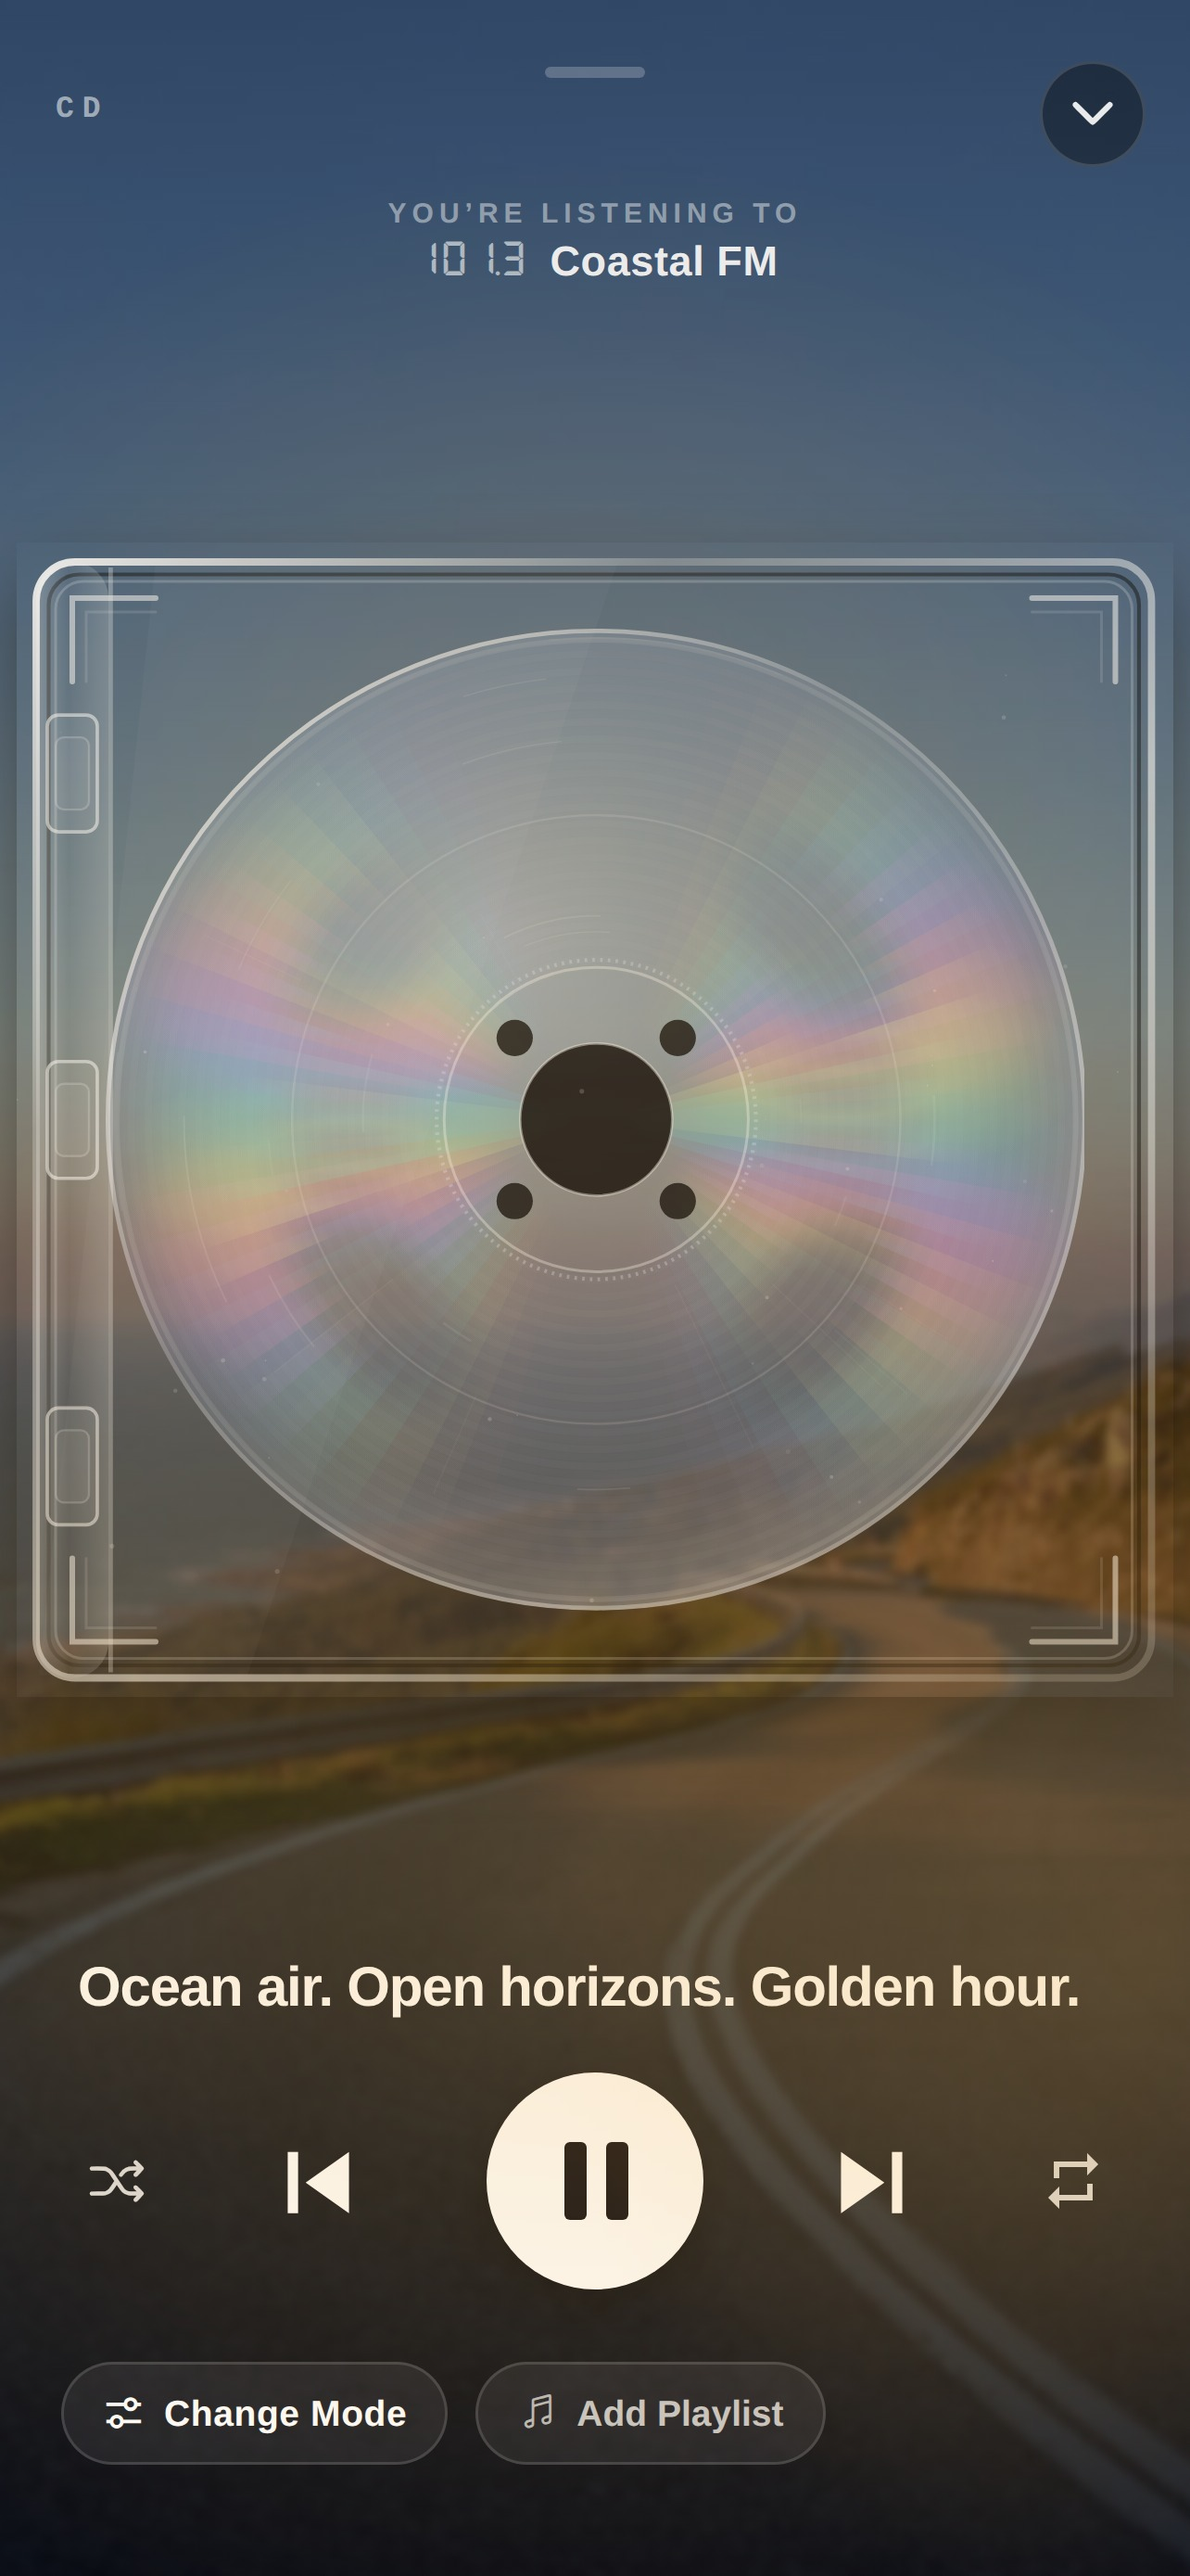
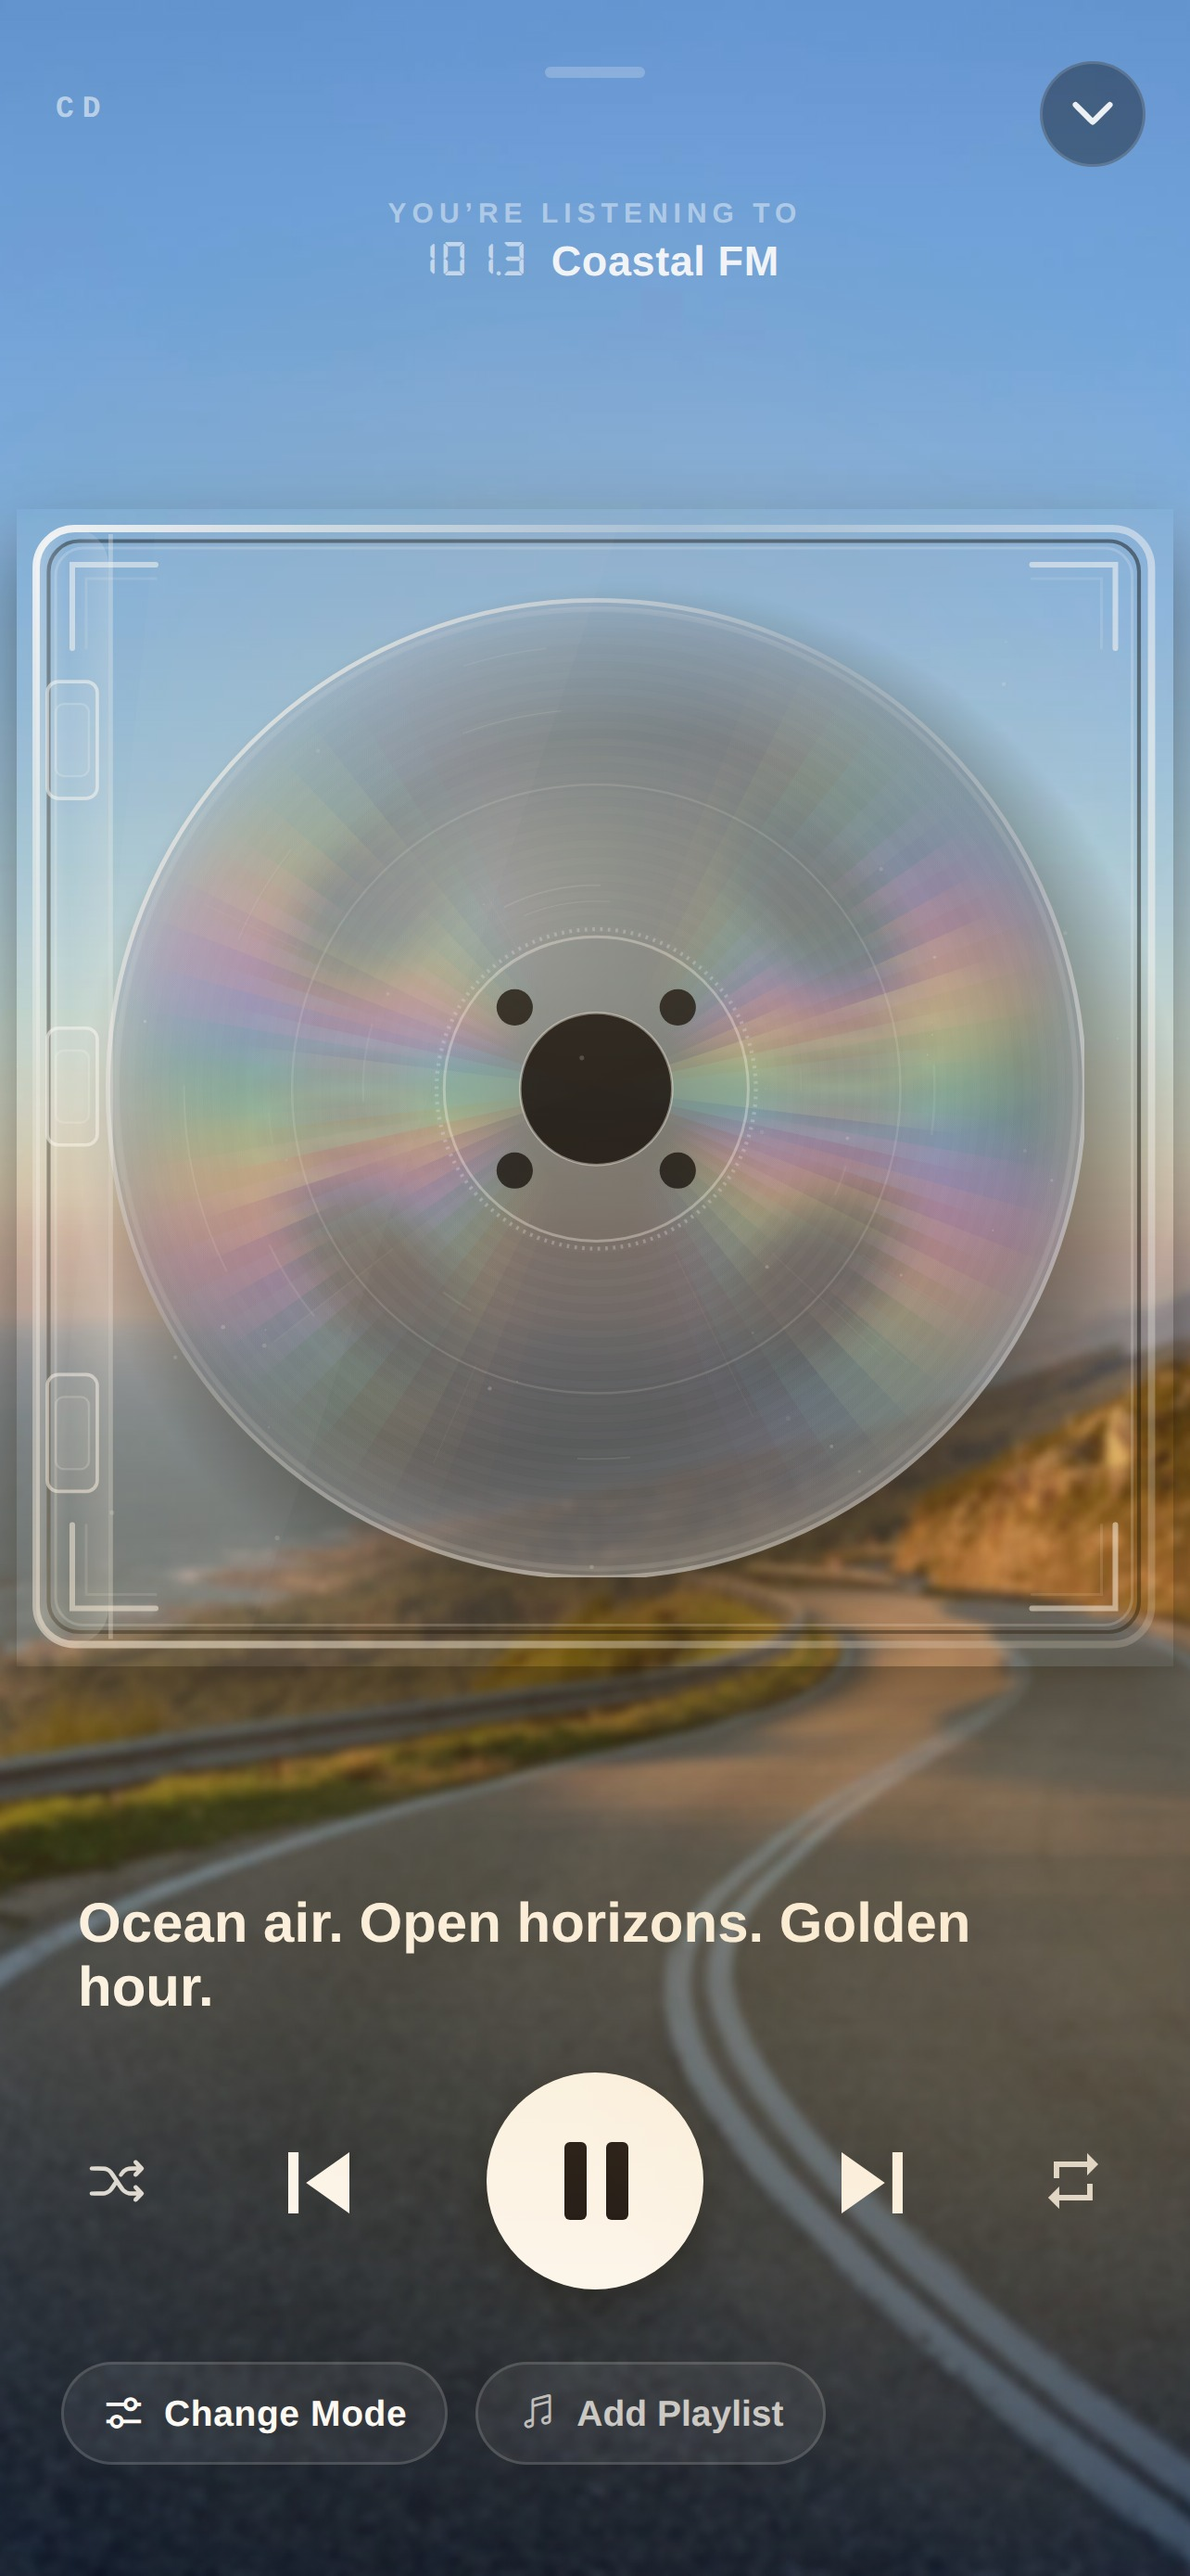
Reshoot the screenshots, and take a real record label off the record
Owner asked for fresh frameless screens for the new previews. The set was
shot on 3 August and the app has moved since — the scrub carries a car
now, the dial has on-air lamps and an up-next line.

AND THE THING THE RESHOOT CAUGHT: the vinyl label's imprint line read
COLUMBIA. It was there for realism, and it is a live Sony Music
trademark, printed on a simulated record label inside a music app — about
to go onto a public App Store listing, which is where borrowed content
stops being harmless. It says STROFI now, which reads exactly like an
imprint and is actually ours. Swept the other object modes for the same
class of thing (TDK, Technics, Motown and the rest of the obvious ones):
this was the only instance.

The harness lives in scripts/harness now rather than a scratch directory,
since the last one was lost to a container reset. Three traps are written
into it, two of which cost a set today:

- force:true skips the actionability wait, and that includes "has this
  stopped moving" — so the mood sheet's rows were measured mid-animation
  and the click landed on stale coordinates.
- force:true also does not scroll, so mode cards below the fold had their
  clicks land on the floating tab bar instead.
- the Stations tab stays MOUNTED behind the sheet with its own copy of
  every station row, and that copy is unclickable, so .first() waits for
  a click that can never happen.

Colours re-sampled and the brief updated, because the pictures changed.
[…]

diff --git a/src/components/VinylMode.tsx b/src/components/VinylMode.tsx
@@ -195,7 +195,7 @@ function VinylDisc({ size, spin, accent = V.gold, showLabel = false }: { size: n
           top: size / 2 - cR, left: size / 2 - cR,
           overflow: 'hidden',
         }}>
-          <Text style={{ position: 'absolute', top: cR * 0.18, left: 0, right: 0, textAlign: 'center', color: 'rgba(255,255,255,0.7)', fontSize: Math.max(5, cSize * 0.075), fontWeight: '700', letterSpacing: 0.8 }}>COLUMBIA</Text>
+          <Text style={{ position: 'absolute', top: cR * 0.18, left: 0, right: 0, textAlign: 'center', color: 'rgba(255,255,255,0.7)', fontSize: Math.max(5, cSize * 0.075), fontWeight: '700', letterSpacing: 0.8 }}>STROFI</Text>
           <Text style={{ position: 'absolute', top: cR * 0.50, left: 0, right: 0, textAlign: 'center', color: '#fff', fontSize: Math.max(7, cSize * 0.145), fontWeight: '800', letterSpacing: 0.4 }}>CRUISE FM</Text>
           <Text style={{ position: 'absolute', top: cR * 1.22, left: 0, right: 0, textAlign: 'center', color: 'rgba(255,255,255,0.6)', fontSize: Math.max(4, cSize * 0.065), letterSpacing: 0.3 }}>NIGHT RUN FM</Text>
           <View style={{ position: 'absolute', width: 5, height: 5, borderRadius: 2.5, backgroundColor: '#fff', top: cR - 2.5, left: cR - 2.5 }} />
@@ -588,7 +588,7 @@ function TurntableHero({
               <Image source={{ uri: albumArt }} style={{ position: 'absolute', width: cSize, height: cSize }} resizeMode="cover" />
             ) : (
               <>
-                <Text style={{ position: 'absolute', top: cR * 0.18, left: 0, right: 0, textAlign: 'center', color: 'rgba(255,255,255,0.7)', fontSize: Math.max(5, cSize * 0.075), fontWeight: '700', letterSpacing: 1.2 }}>COLUMBIA</Text>
+                <Text style={{ position: 'absolute', top: cR * 0.18, left: 0, right: 0, textAlign: 'center', color: 'rgba(255,255,255,0.7)', fontSize: Math.max(5, cSize * 0.075), fontWeight: '700', letterSpacing: 1.2 }}>STROFI</Text>
                 <Text style={{ position: 'absolute', top: cR * 0.50, left: 0, right: 0, textAlign: 'center', color: '#fff', fontSize: Math.max(8, cSize * 0.145), fontWeight: '800', letterSpacing: 0.4 }}>CRUISE FM</Text>
                 <Text style={{ position: 'absolute', top: cR * 1.22, left: 0, right: 0, textAlign: 'center', color: 'rgba(255,255,255,0.6)', fontSize: Math.max(4, cSize * 0.075), letterSpacing: 0.4 }} numberOfLines={1}>{labelText}</Text>
               </>
@@ -1213,6 +1213,12 @@ export function VinylFullscreen({ visible, onClose, stationId }: { visible: bool
   // the pills inside the snapshot.
   const bottomPad    = Math.max(insets.bottom, 24) + 16;
 
+  // The imprint line on the record's label says STROFI, not COLUMBIA. It read
+  // COLUMBIA for realism, which is a live Sony Music trademark printed on a
+  // simulated label inside a music app — harmless-looking until it goes on an
+  // App Store listing, which is where it was spotted (14.08) while reshooting
+  // the screenshots. The app's own company name reads exactly like a real
+  // imprint and is ours. Do not put a real label back.
   const _restartProgressFrom = (posMs: number, trackMs: number) => {
     const remaining = trackMs - posMs;
     if (remaining <= 0) return;
